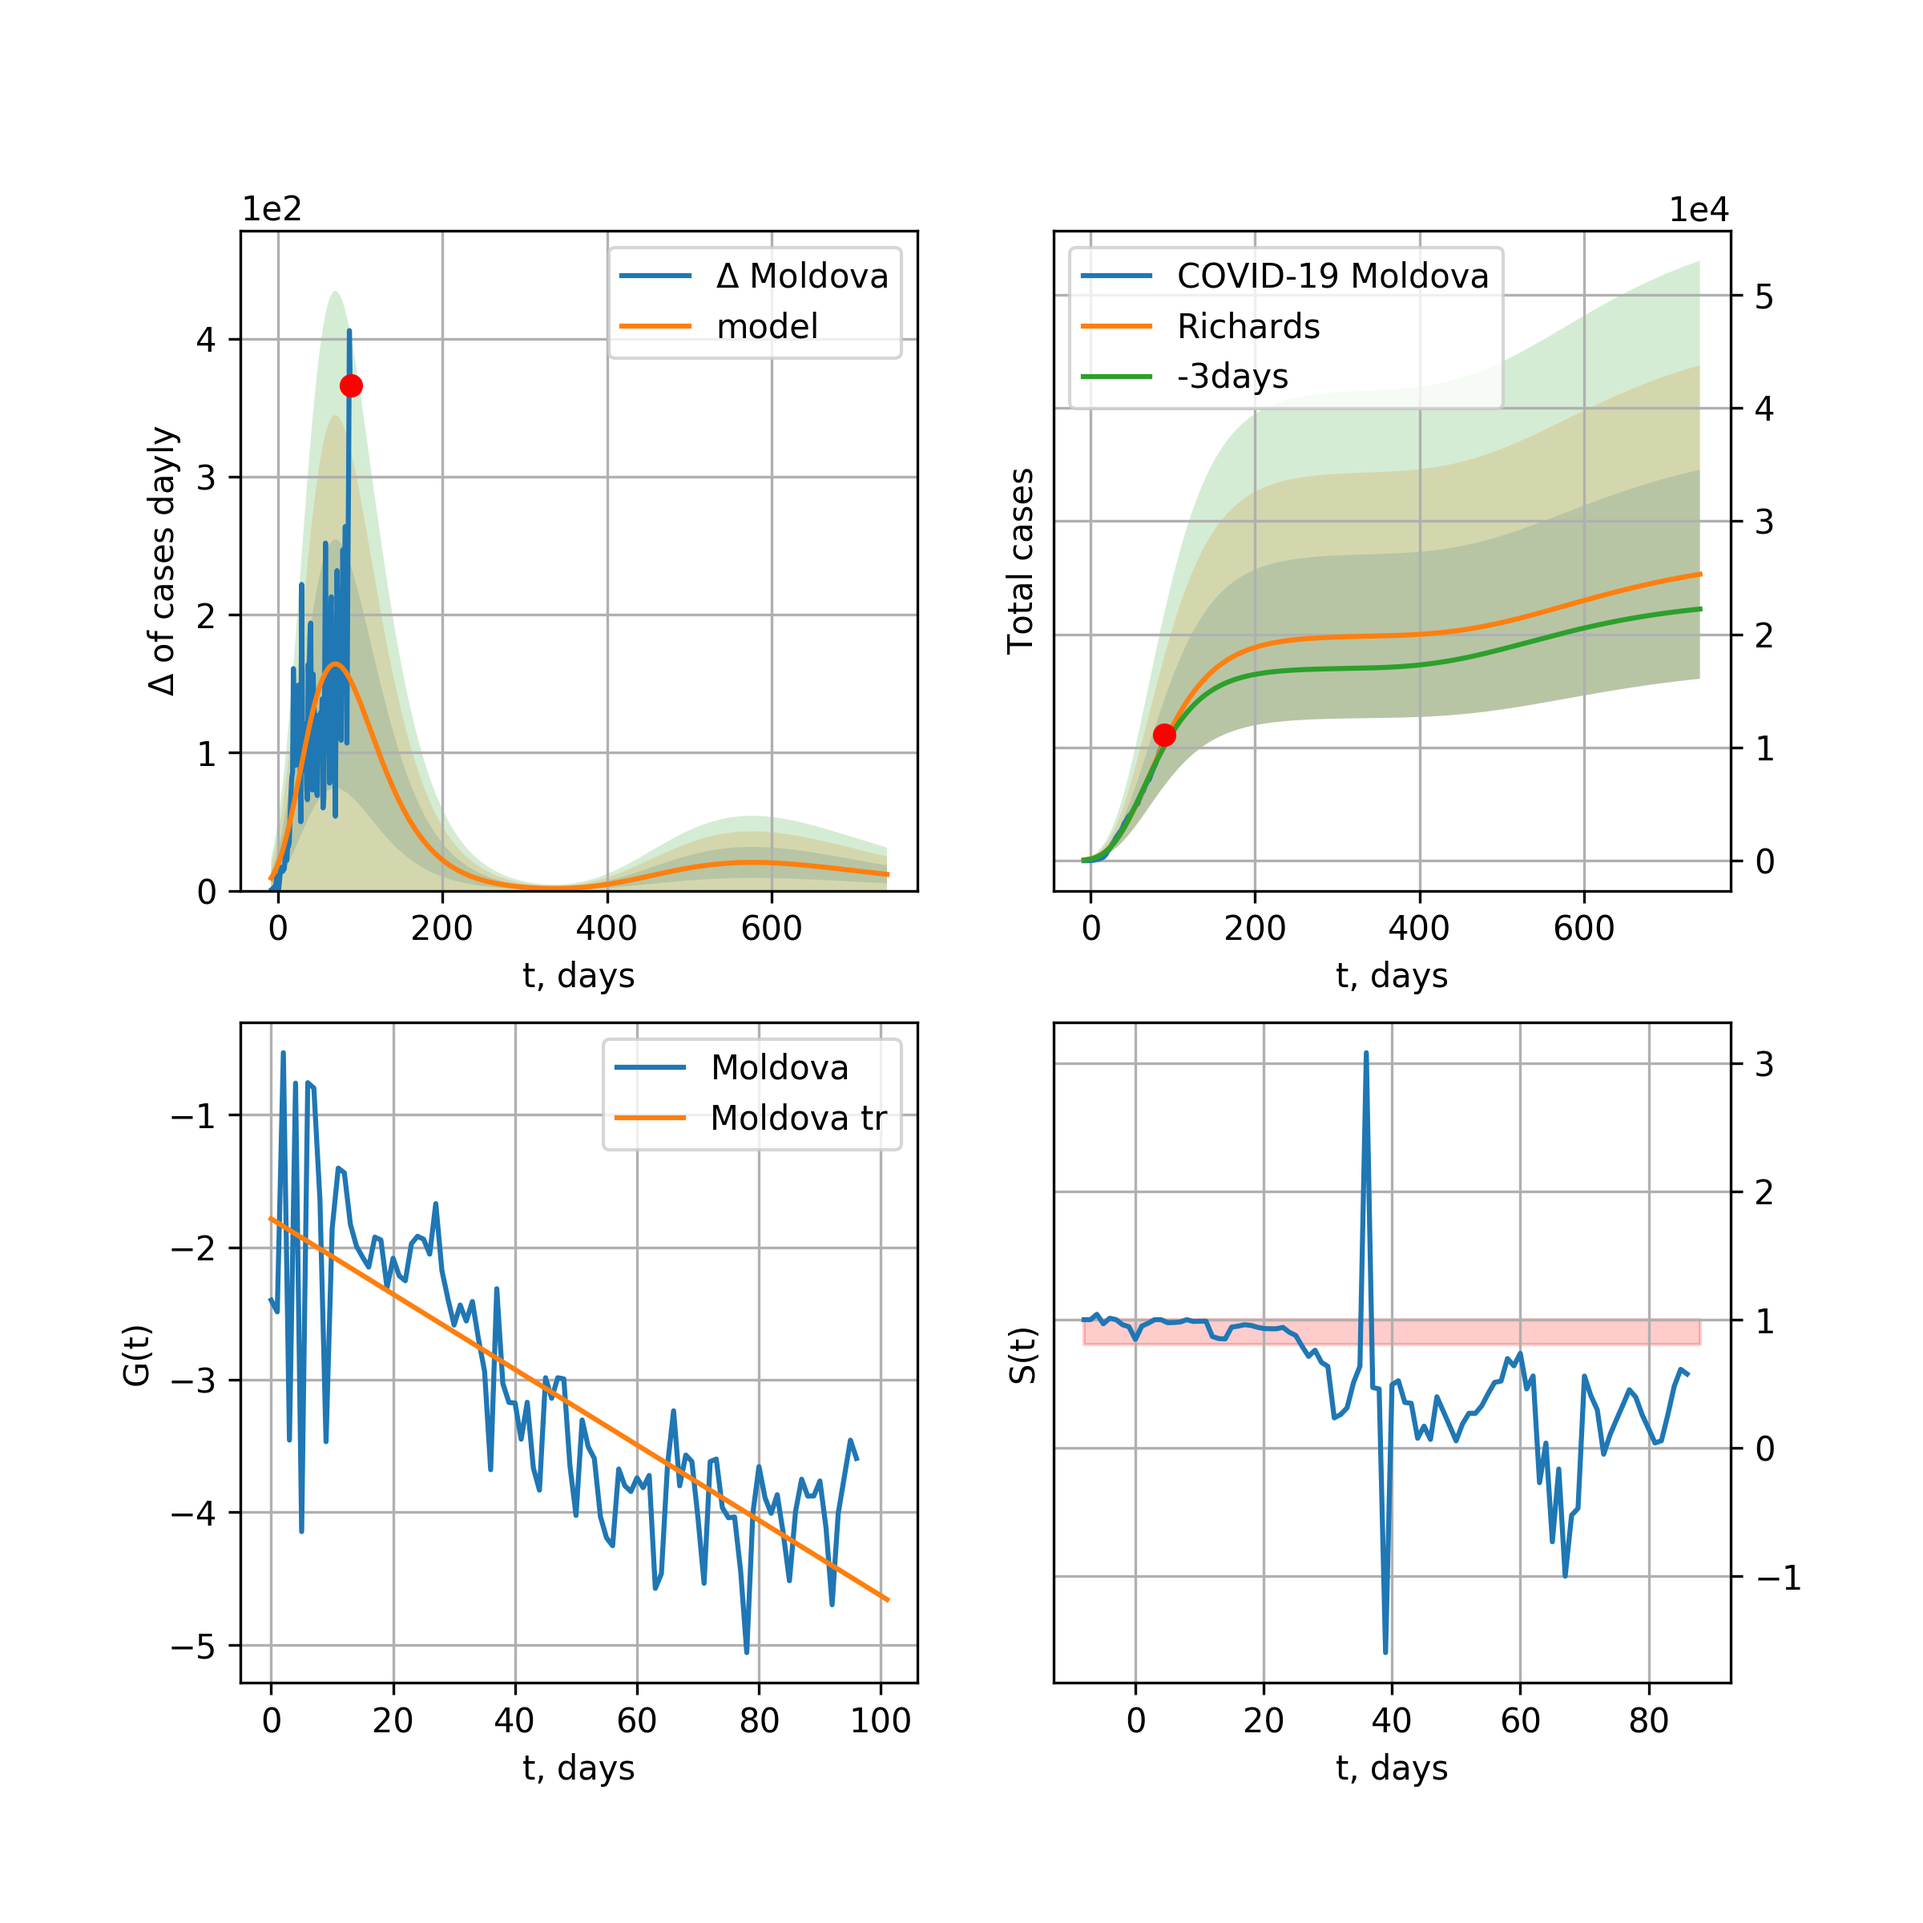
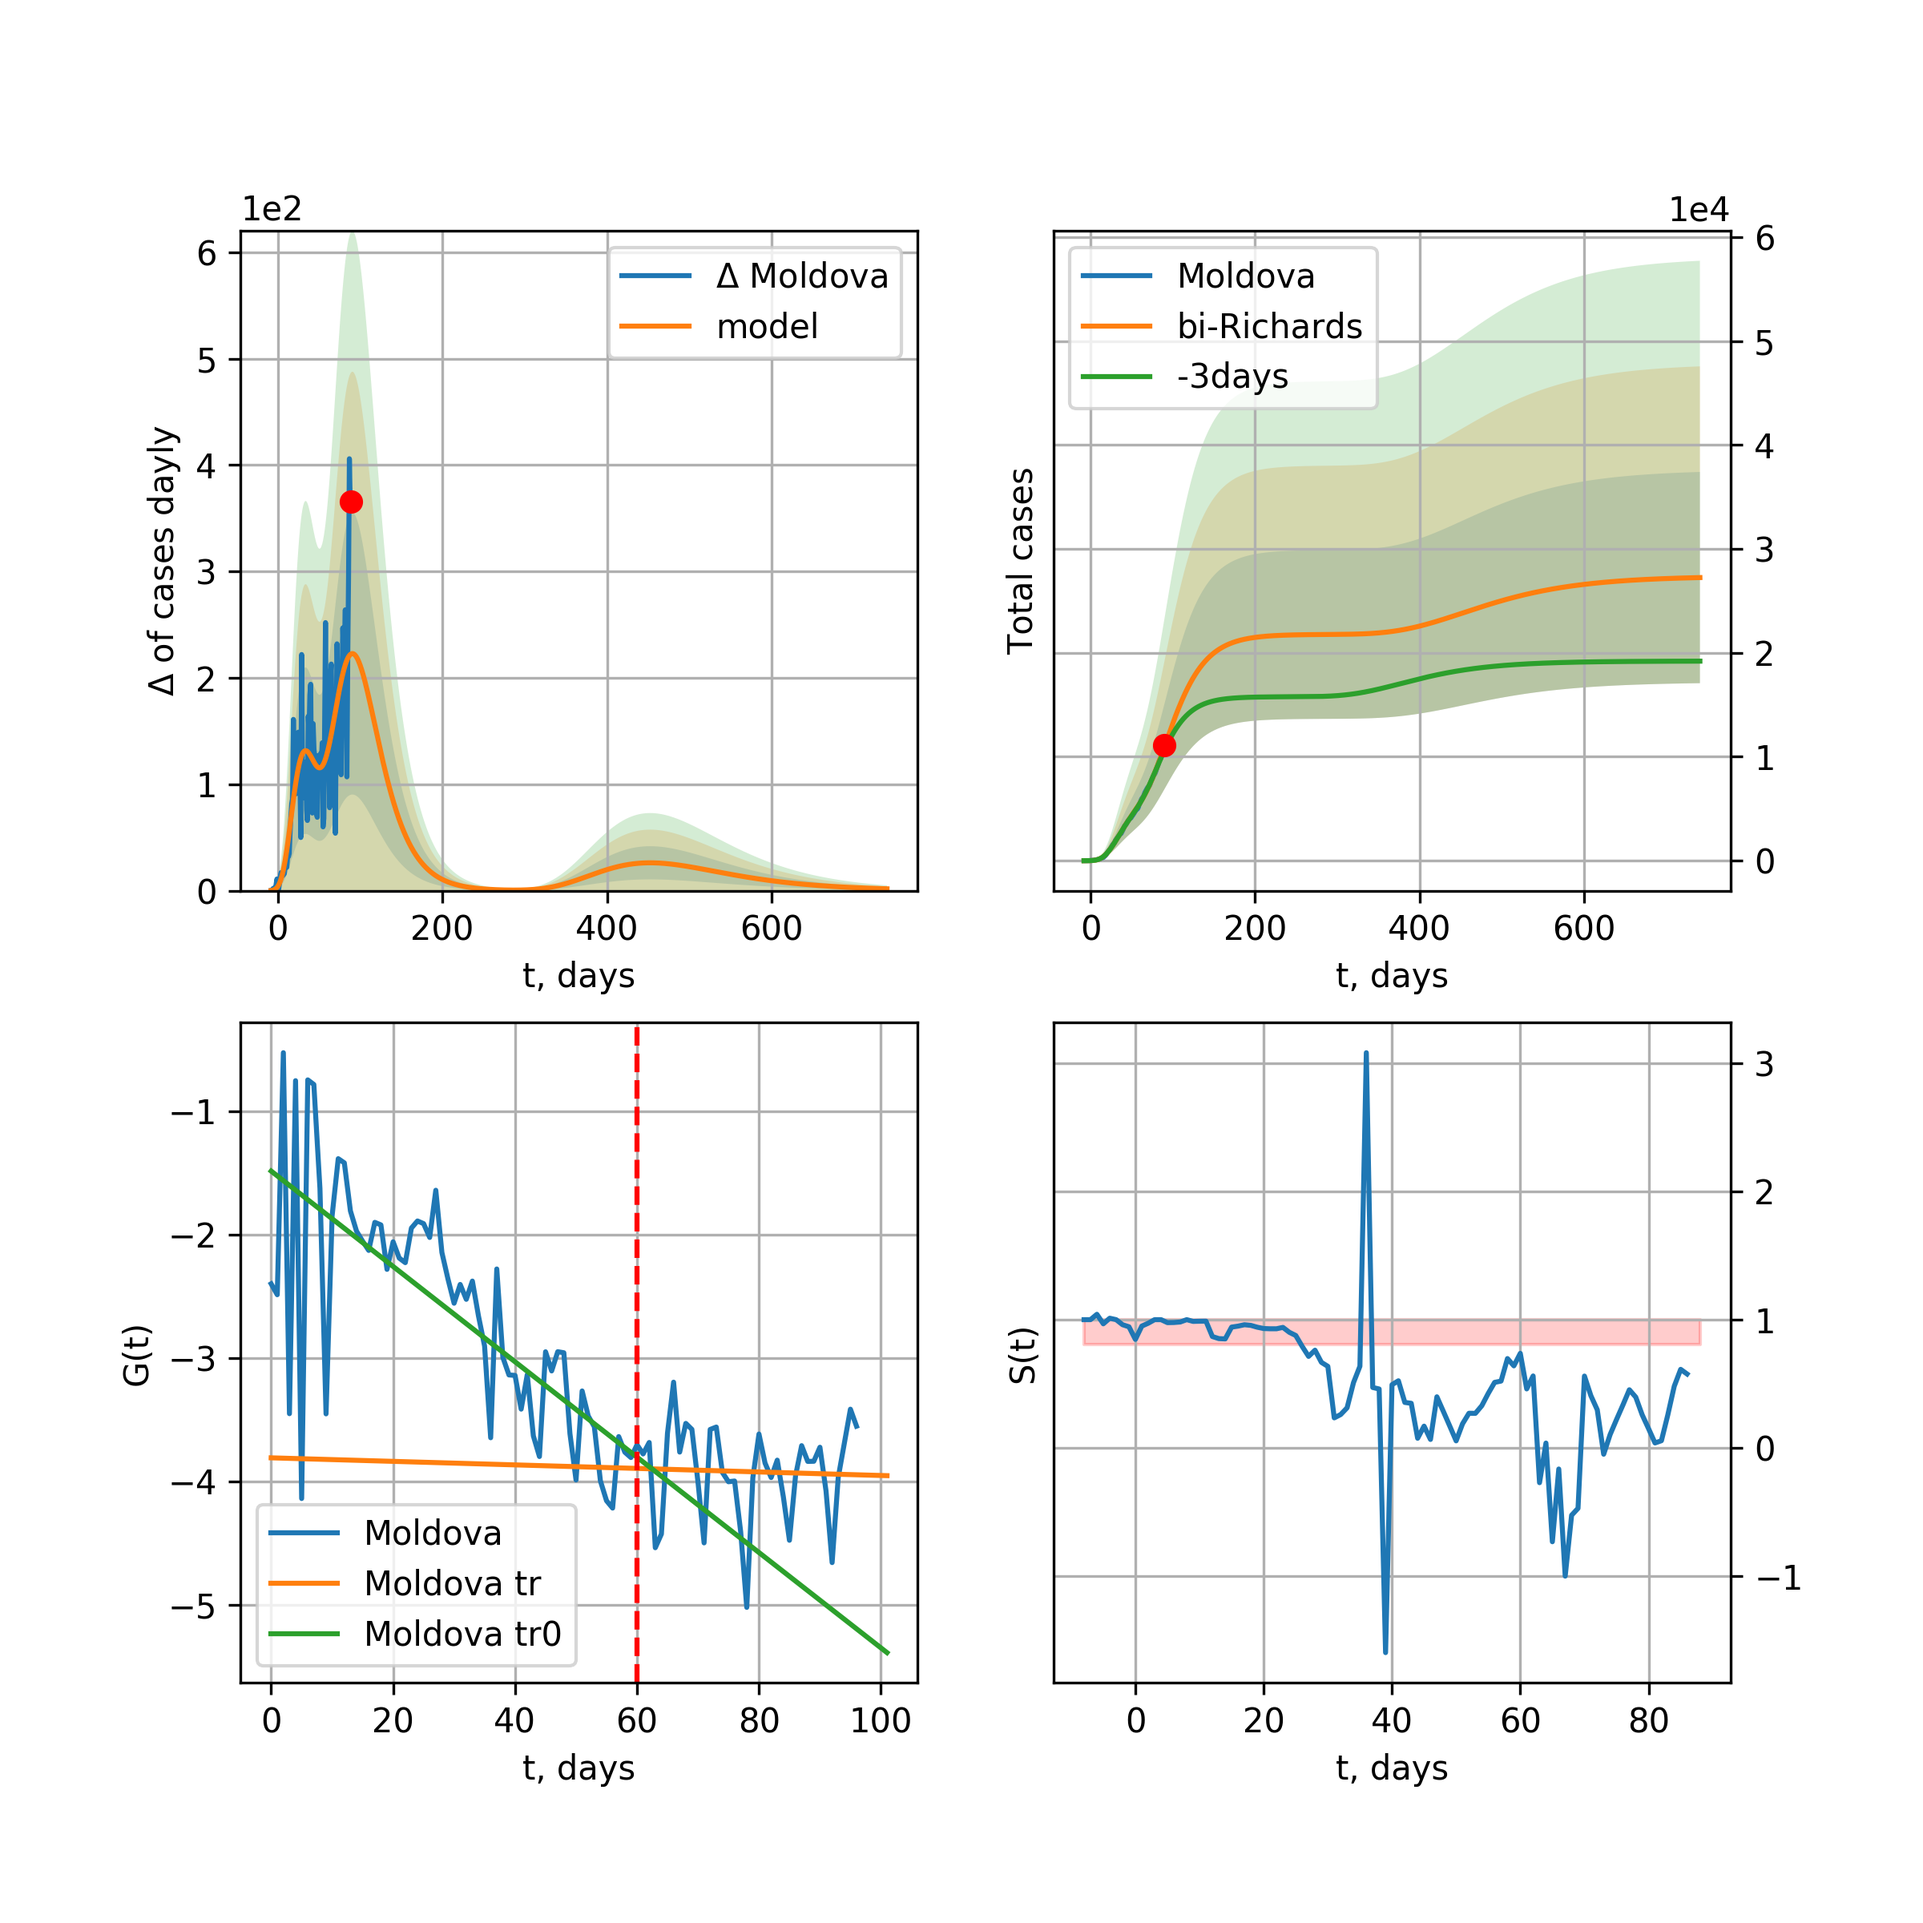
MD renew 2020-06-12

diff --git a/_site/index.html b/_site/index.html
@@ -913,18 +913,21 @@ trend coefficient of determination: 0.865683 <br />
     <img src="pictures/covidcasesMoldova36_R.png" alt="hi" class="inline"/><br /> 
 
       Moldova data at: 2020-06-12<br />
-+3 day model MAPE: 0.033698<br />
-model: Richards<br />
-coeffs: [ 1.98617570e+04  1.15652670e+00 -1.02527850e+02  1.96428821e-02]<br />
++3 day model MAPE: 0.034568<br />
+model: bi-Richards<br />
+coeffs: [ 1.54704288e+04  2.46520491e+00 -1.89210869e+01  1.51187554e-02]<br />
 S.Korea scenario coeffs: [0.36242246, 2.56241634, 1.84890887, 0.13324732]<br />
-rational stdev: 0.364759<br />
+rational stdev: 0.372970<br />
 forecast at the end of period: +652 days<br />
-	 deltaDaycases: 11<br />
-	 total cases: 25301 ± 9229<br />
-	 total death: 878 ± 960<br />
-trend coefficient of determination: 0.640959 <br />
- intercept: -1.786152 <br />
- slope: -0.028442<br />
+	 deltaDaycases: 1<br />
+	 total cases: 27241 ± 10160<br />
+	 total death: 945 ± 1057<br />
+bi-Richards approximation splitting point: 60<br />
+trend coefficient of determination: 0.527380 <br />
+ intercept: -1.486270 <br />
+ slope: -0.038612<br />trend coefficient of determination: 0.001628 <br />
+ intercept: -3.808521 <br />
+ slope: -0.001429<br />
           <br />    
     
     Denmark
